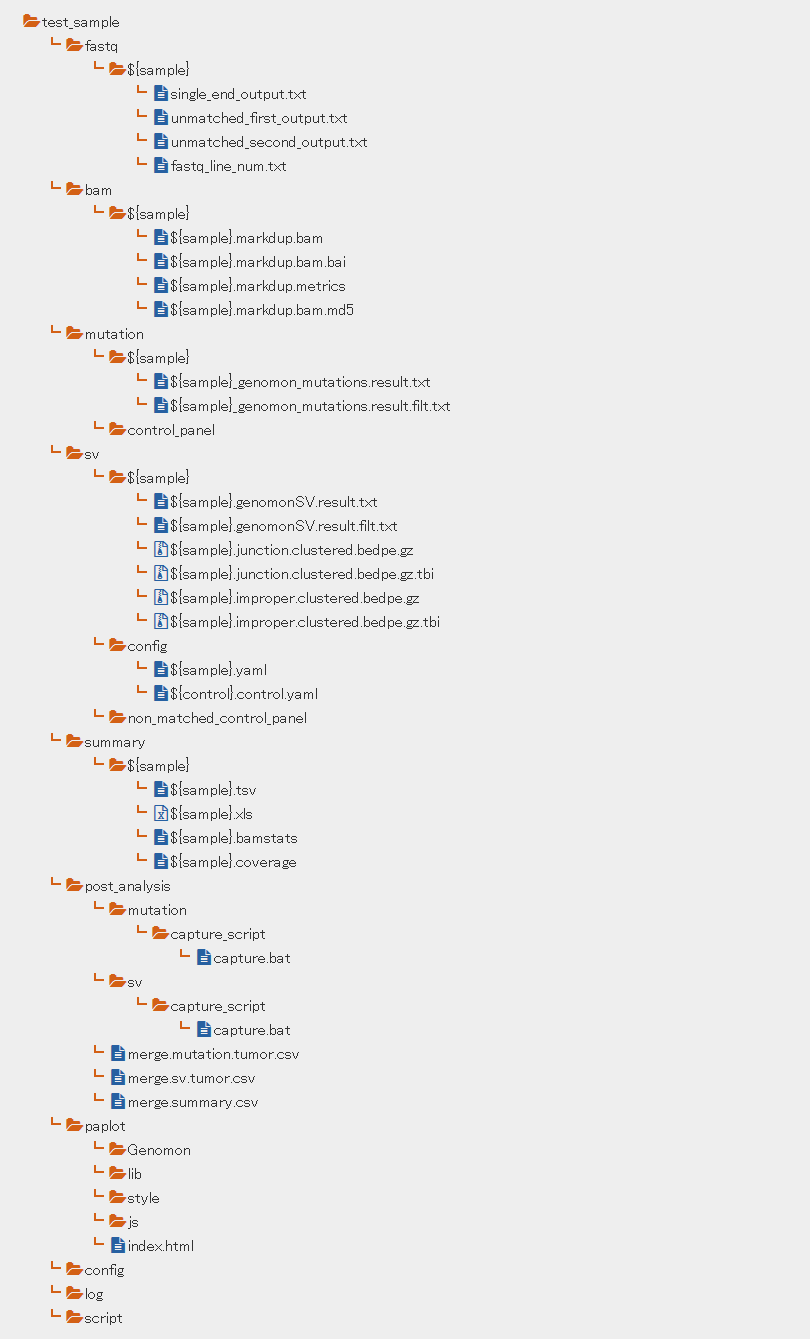
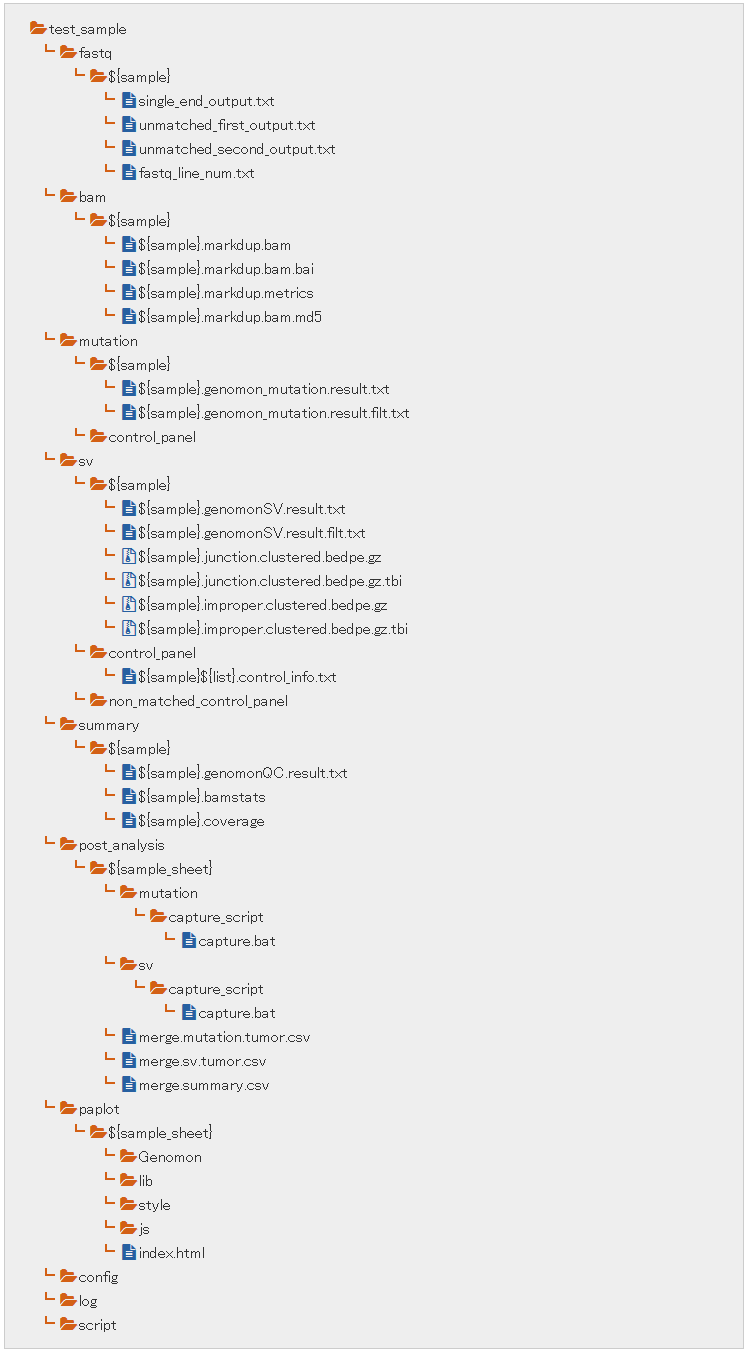
specification change for Genomon-v2.2.0

Changed region(s): [[0.0308, 0.0, 0.5542, 1.0], [0.9853, 0.9798, 1.0, 1.0]]

diff --git a/tree/genomon_dna_tree.html b/tree/genomon_dna_tree.html
@@ -11,15 +11,17 @@
     border: 1px solid #CCCCCC;
     margin: 4px;
     font-size: 16px;
+    font-family: sans-serif, "Helvetica Neue", Helvetica, Arial;
     display: block;
     color: #333333;
   }
   .filelist dt, .filelist dd{
-    margin-left: 0px;
+    margin: 0px;
     padding: 4px 0 4px 0;
-    }
-    .filelist dl{
-    padding-left: 3px;
+  }
+  .filelist dl{
+    margin: 0px;
+    padding: 0px 0px 0px 30px;
   }
   /* dir style */
   .filelist dl dt:before, .filelist dl dd:before{
@@ -74,114 +76,131 @@
 </head>
 <body>
 <dl class="fa filelist">
-<dt><icon/>test_sample</dt>
-<dl>
-<dt><icon/>fastq</dt>
-<dl>
-<dt><icon/>${sample}</dt>
-<dl>
-<dd><icon_text/>single_end_output.txt</dd>
-<dd><icon_text/>unmatched_first_output.txt</dd>
-<dd><icon_text/>unmatched_second_output.txt</dd>
-<dd><icon_text/>fastq_line_num.txt</dd>
+	<dt><icon/>test_sample</dt>
+	<dl>
+		<dt><icon/>fastq</dt>
+		<dl>
+			<dt><icon/>${sample}</dt>
+			<dl>
+				<dd><icon_text/>single_end_output.txt</dd>
+				<dd><icon_text/>unmatched_first_output.txt</dd>
+				<dd><icon_text/>unmatched_second_output.txt</dd>
+				<dd><icon_text/>fastq_line_num.txt</dd>
+			</dl>
+		</dl>
+
+		<dt><icon/>bam</dt>
+		<dl>
+			<dt><icon/>${sample}</dt>
+			<dl>
+				<dd><icon_text/>${sample}.markdup.bam</dd>
+				<dd><icon_text/>${sample}.markdup.bam.bai</dd>
+				<dd><icon_text/>${sample}.markdup.metrics</dd>
+				<dd><icon_text/>${sample}.markdup.bam.md5</dd>
+			</dl>
+		</dl>
+
+		<dt><icon/>mutation</dt>
+		<dl>
+			<dt><icon/>${sample}</dt>
+			<dl>
+				<dd><icon_text/>${sample}.genomon_mutation.result.txt</dd>
+				<dd><icon_text/>${sample}.genomon_mutation.result.filt.txt</dd>
+			</dl>
+			<dt><icon/>control_panel</dt>
+			<dl>
+			</dl>
+		</dl>
+
+		<dt><icon/>sv</dt>
+		<dl>
+			<dt><icon/>${sample}</dt>
+			<dl>
+				<dd><icon_text/>${sample}.genomonSV.result.txt</dd>
+				<dd><icon_text/>${sample}.genomonSV.result.filt.txt</dd>
+				<dd><icon_archive/>${sample}.junction.clustered.bedpe.gz</dd>
+				<dd><icon_archive/>${sample}.junction.clustered.bedpe.gz.tbi</dd>
+				<dd><icon_archive/>${sample}.improper.clustered.bedpe.gz</dd>
+				<dd><icon_archive/>${sample}.improper.clustered.bedpe.gz.tbi</dd>
+			</dl>
+			<dt><icon/>control_panel</dt>
+			<dl>
+				<dd><icon_text/>${sample}${list}.control_info.txt</dd>
+			</dl>
+			<dt><icon/>non_matched_control_panel</dt>
+			<dl>
+			</dl>
+		</dl>
+
+		<dt><icon/>summary</dt>
+		<dl>
+			<dt><icon/>${sample}</dt>
+			<dl>
+				<dd><icon_text/>${sample}.genomonQC.result.txt</dd>
+				<dd><icon_text/>${sample}.bamstats</dd>
+				<dd><icon_text/>${sample}.coverage</dd>
+			</dl>
+		</dl>
+
+		<dt><icon/>post_analysis</dt>
+		<dl>
+			<dt><icon/>${sample_sheet}</dt>
+				<dl>
+				<dt><icon/>mutation</dt>
+				<dl>
+					<dt><icon/>capture_script</dt>
+					<dl>
+						<dd><icon_text/>capture.bat</dd>
+					</dl>
+				</dl>
+				
+				<dt><icon/>sv</dt>
+				<dl>
+					<dt><icon/>capture_script</dt>
+					<dl>
+						<dd><icon_text/>capture.bat</dd>
+					</dl>
+				</dl>
+				
+				<dd><icon_text/>merge.mutation.tumor.csv</dd>
+				<dd><icon_text/>merge.sv.tumor.csv</dd>
+				<dd><icon_text/>merge.summary.csv</dd>
+			</dl>
+		</dl>
+
+		<dt><icon/>paplot</dt>
+		<dl>
+			<dt><icon/>${sample_sheet}</dt>
+			<dl>
+				<dt><icon/>Genomon</dt>
+				<dl>
+				</dl>
+				<dt><icon/>lib</dt>
+				<dl>
+				</dl>
+				<dt><icon/>style</dt>
+				<dl>
+				</dl>
+				<dt><icon/>js</dt>
+				<dl>
+				</dl>
+				<dd><icon_text/>index.html</dd>
+			</dl>
+		</dl>
+
+		<dt><icon/>config</dt>
+		<dl>
+		</dl>
+
+		<dt><icon/>log</dt>
+		<dl>
+		</dl>
+
+		<dt><icon/>script</dt>
+		<dl>
+		</dl>
+
+	</dl>
 </dl>
-</dl>
-<dt><icon/>bam</dt>
-<dl>
-<dt><icon/>${sample}</dt>
-<dl>
-<dd><icon_text/>${sample}.markdup.bam</dd>
-<dd><icon_text/>${sample}.markdup.bam.bai</dd>
-<dd><icon_text/>${sample}.markdup.metrics</dd>
-<dd><icon_text/>${sample}.markdup.bam.md5</dd>
-</dl>
-</dl>
-<dt><icon/>mutation</dt>
-<dl>
-<dt><icon/>${sample}</dt>
-<dl>
-<dd><icon_text/>${sample}_genomon_mutations.result.txt</dd>
-<dd><icon_text/>${sample}_genomon_mutations.result.filt.txt</dd>
-</dl>
-<dt><icon/>control_panel</dt>
-<dl>
-</dl>
-</dl>
-<dt><icon/>sv</dt>
-<dl>
-<dt><icon/>${sample}</dt>
-<dl>
-<dd><icon_text/>${sample}.genomonSV.result.txt</dd>
-<dd><icon_text/>${sample}.genomonSV.result.filt.txt</dd>
-<dd><icon_archive/>${sample}.junction.clustered.bedpe.gz</dd>
-<dd><icon_archive/>${sample}.junction.clustered.bedpe.gz.tbi</dd>
-<dd><icon_archive/>${sample}.improper.clustered.bedpe.gz</dd>
-<dd><icon_archive/>${sample}.improper.clustered.bedpe.gz.tbi</dd>
-</dl>
-<dt><icon/>config</dt>
-<dl>
-<dd><icon_text/>${sample}.yaml</dd>
-<dd><icon_text/>${control}.control.yaml</dd>
-</dl>
-<dt><icon/>non_matched_control_panel</dt>
-<dl>
-</dl>
-</dl>
-<dt><icon/>summary</dt>
-<dl>
-<dt><icon/>${sample}</dt>
-<dl>
-<dd><icon_text/>${sample}.tsv</dd>
-<dd><icon_xls/>${sample}.xls</dd>
-<dd><icon_text/>${sample}.bamstats</dd>
-<dd><icon_text/>${sample}.coverage</dd>
-</dl>
-</dl>
-<dt><icon/>post_analysis</dt>
-<dl>
-<dt><icon/>mutation</dt>
-<dl>
-<dt><icon/>capture_script</dt>
-<dl>
-<dd><icon_text/>capture.bat</dd>
-</dl>
-</dl>
-<dt><icon/>sv</dt>
-<dl>
-<dt><icon/>capture_script</dt>
-<dl>
-<dd><icon_text/>capture.bat</dd>
-</dl>
-</dl>
-<dd><icon_text/>merge.mutation.tumor.csv</dd>
-<dd><icon_text/>merge.sv.tumor.csv</dd>
-<dd><icon_text/>merge.summary.csv</dd>
-</dl>
-<dt><icon/>paplot</dt>
-<dl>
-<dt><icon/>Genomon</dt>
-<dl>
-</dl>
-<dt><icon/>lib</dt>
-<dl>
-</dl>
-<dt><icon/>style</dt>
-<dl>
-</dl>
-<dt><icon/>js</dt>
-<dl>
-</dl>
-<dd><icon_text/>index.html</dd>
-</dl>
-<dt><icon/>config</dt>
-<dl>
-</dl>
-<dt><icon/>log</dt>
-<dl>
-</dl>
-<dt><icon/>script</dt>
-<dl>
-</dl>
-</dl></dl>
 </body>
 </html>
